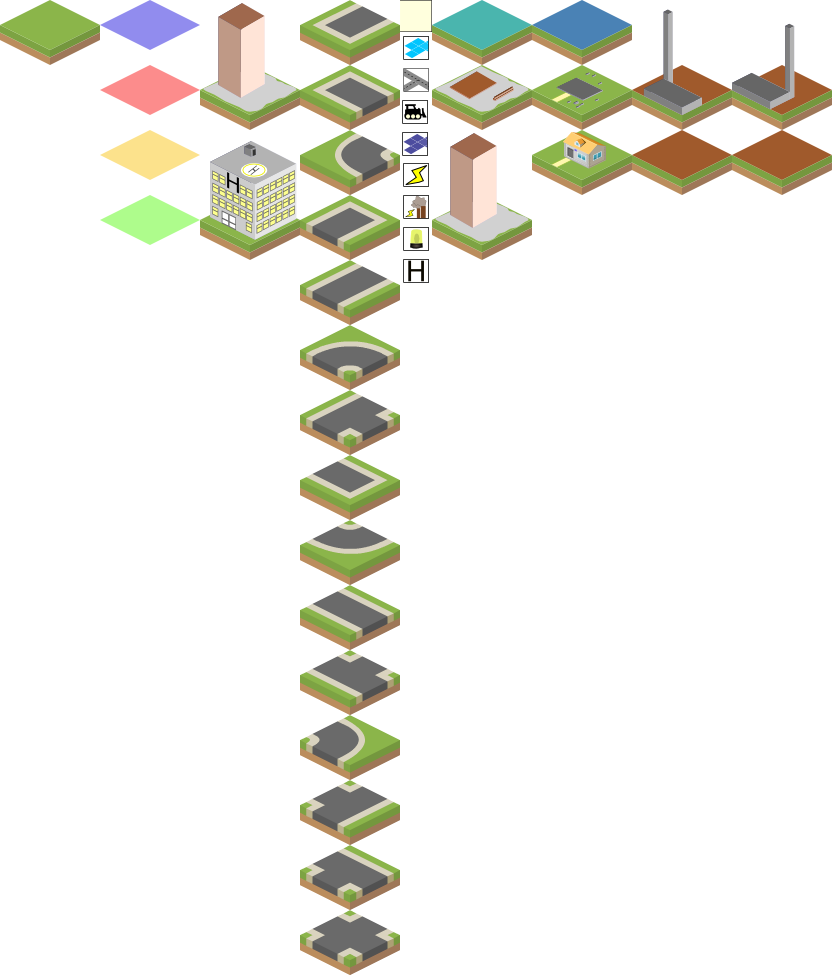
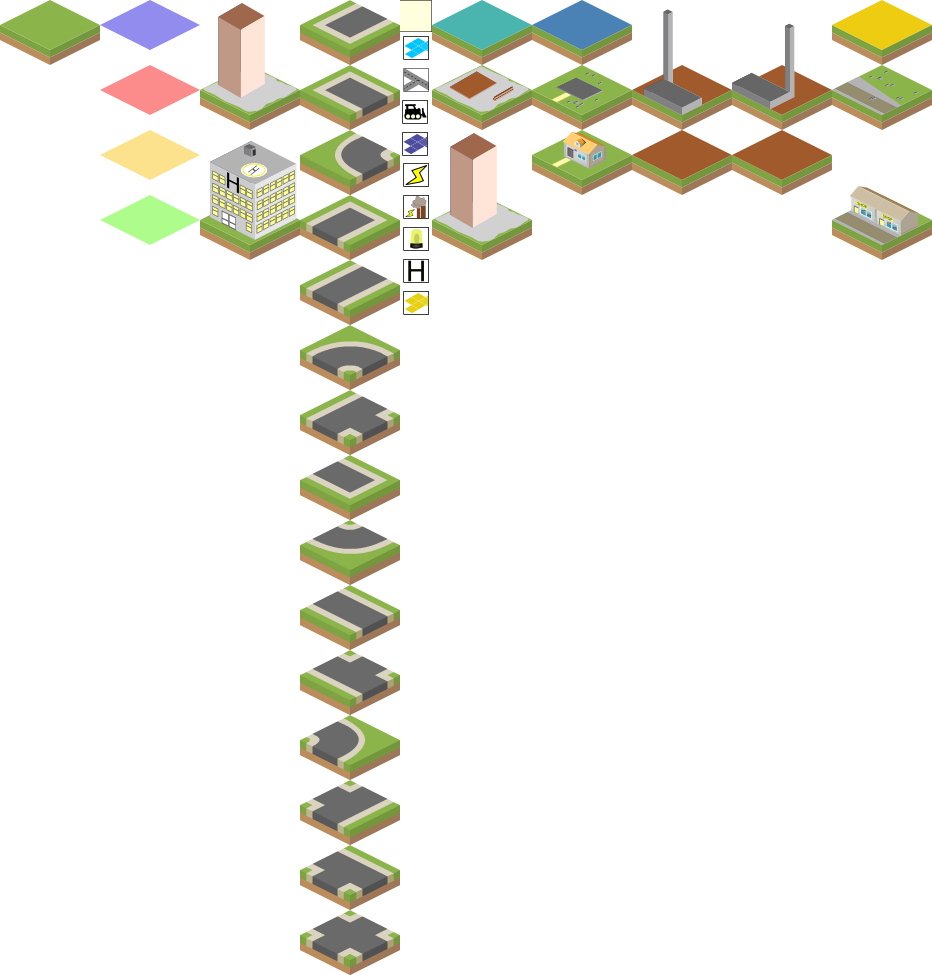
add/Shops

Changed region(s): [[0.0, 0.0, 1.0, 1.0]]

diff --git a/src/city_master.c b/src/city_master.c
@@ -34,6 +34,9 @@ int build_finish_prob = 600;
 extern int reqired_power;
 extern int power_avalible;
 
+extern int number_of_shops;
+const int target_population_per_shop = 250;
+
 int balanceChangeCounterStart = 100;
 int balanceChangeCounter = 100;
 int lastBalanceChange;
@@ -137,6 +140,18 @@ void placePlannedBuild()
             }
 
             break;
+        case MODE_BUILD_RETAIL:;
+            for(x = MIN(plan_down.x, plan_up.x); x<=MAX(plan_down.x, plan_up.x); x++) {
+                for(y = MIN(plan_down.y, plan_up.y); y<=MAX(plan_down.y, plan_up.y); y++) {
+                    p.x = x;
+                    p.y = y;
+                    if(canBuildOn(map_value[p.x][p.y])) {
+                        build_tile(p.x, p.y, TILE_RETAIL_ZONE);
+                    }
+                }
+            }
+
+            break;
         case MODE_BUILD_DESTROY:
             for(x = MIN(plan_down.x, plan_up.x); x<=MAX(plan_down.x, plan_up.x); x++) {
                 for(y = MIN(plan_down.y, plan_up.y); y<=MAX(plan_down.y, plan_up.y); y++) {
@@ -192,7 +207,15 @@ bool build_prob_check(TILE_TYPE t)
             break;
         case TILE_RESIDENTIAL_1_BUILDING:
         case TILE_RESIDENTIAL_2_BUILDING:
+        case TILE_RETAIL_BUILDING:
             prob = build_finish_prob;
+            break;
+        case TILE_RETAIL_ZONE:;
+            // How many shops we need to get to the optimum number
+            float shops_short_by = ((float)getPopulation()/(float)target_population_per_shop) - (float)number_of_shops;
+            if(shops_short_by > 0)  prob =  1500;
+            else                    prob = 15000;
+
             break;
         default:
             prob = build_finish_prob;
@@ -204,11 +227,13 @@ bool build_prob_check(TILE_TYPE t)
 
 void map_update()
 {
-    int x, y, pop;
+    int x, y, pop = 0, shopC = 0;
     for(x=1; x<MAP_SIZE_X; x++) {
         for(y=1;y<MAP_SIZE_Y; y++) {
 
             pop += getTilePopulation(map_value[x][y]);
+
+            if(map_value[x][y] == TILE_RETAIL_B1) shopC += 1;
 
             switch(map_value[x][y]) {
                 case TILE_RESIDENTIAL_1_ZONE:
@@ -239,12 +264,27 @@ void map_update()
                         reqired_power = reqired_power - getPowerUsage(TILE_RESIDENTIAL_2_BUILDING);
                     }
                     break;
+                case TILE_RETAIL_ZONE:
+                    if(grid_supplied(x, y, TILE_RETAIL_BUILDING) && build_prob_check(TILE_RETAIL_ZONE)) { 
+                        //map_value[x][y] = TILE_RESIDENTIAL_2_BUILDING;
+                        build_tile(x, y, TILE_RETAIL_BUILDING);
+                        reqired_power = reqired_power - getPowerUsage(TILE_RETAIL_ZONE);
+                    }
+                    break;
+                case TILE_RETAIL_BUILDING:
+                    if(grid_supplied(x, y, TILE_RETAIL_B1) && build_prob_check(TILE_RETAIL_BUILDING)) {
+                        //map_value[x][y] = TILE_RESIDENTIAL_2_B1;
+                        build_tile(x, y, TILE_RETAIL_B1);
+                        reqired_power = reqired_power - getPowerUsage(TILE_RETAIL_BUILDING);
+                    }
+                    break;
                 default:
                     break;
             }
         }
     }
     setPopulation(pop);
+    number_of_shops = shopC;
 }
 
 void inc_balance()
@@ -347,7 +387,7 @@ int main(int argc, char* argv[])
                 down_point.x = e.button.x;
                 down_point.y = e.button.y;
                 if((mode == MODE_BUILD_ROAD || mode == MODE_BUILD_RESIDENTIAL_1 || mode == MODE_BUILD_RESIDENTIAL_2 
-                        || mode == MODE_BUILD_DESTROY)) {
+                        || mode == MODE_BUILD_DESTROY || mode == MODE_BUILD_RETAIL)) {
                     Point d;
                     mouseToGrid(down_point.x, down_point.y, &d);
                     updating_plan = true;
@@ -381,6 +421,16 @@ int main(int argc, char* argv[])
                                 ready_to_place = false; //as we are placing it
                                 if(canBuildOn(map_value[u.x][u.y])) {
                                     build_tile(u.x, u.y, TILE_RESIDENTIAL_2_ZONE);
+                                }
+                            } else {
+                                planRoad(u, d); //Plan to build a bilding is the same as planning a road -- //TODO RENAME
+                            }
+                            break;
+                        case MODE_BUILD_RETAIL:
+                            if(u.x == d.x && u.y == d.y) {
+                                ready_to_place = false; //as we are placing it
+                                if(canBuildOn(map_value[u.x][u.y])) {
+                                    build_tile(u.x, u.y, TILE_RETAIL_ZONE);
                                 }
                             } else {
                                 planRoad(u, d); //Plan to build a bilding is the same as planning a road -- //TODO RENAME

diff --git a/src/tile_info.c b/src/tile_info.c
@@ -23,6 +23,9 @@ void initClips()
     tilePowerRequirements[TILE_RESIDENTIAL_2_BUILDING] = 30;
     tilePowerRequirements[TILE_RESIDENTIAL_2_B1] = 60;
     tilePowerRequirements[TILE_SERVICE_BUILDING_HOSPITAL] = 1000;
+    tilePowerRequirements[TILE_RETAIL_ZONE] = 0;
+    tilePowerRequirements[TILE_RETAIL_BUILDING] = 30;
+    tilePowerRequirements[TILE_RETAIL_B1] = 100;
 
     tilePopulation[TILE_GRASS] = 0;
     tilePopulation[TILE_BUILDING] = 0;
@@ -37,6 +40,13 @@ void initClips()
     tilePopulation[TILE_RESIDENTIAL_2_BUILDING] = 0;
     tilePopulation[TILE_RESIDENTIAL_2_B1] = 6;
     tilePopulation[TILE_SERVICE_BUILDING_HOSPITAL] = 0;
+    tilePopulation[TILE_RETAIL_ZONE] = 0;
+    tilePopulation[TILE_RETAIL_BUILDING] = 0;
+    tilePopulation[TILE_RETAIL_B1] = 0;
+    tilePopulation[TILE_POWER_GAS_P1] = 0;
+    tilePopulation[TILE_POWER_GAS_P2] = 0;
+    tilePopulation[TILE_POWER_GAS_P3] = 0;
+    tilePopulation[TILE_POWER_GAS_P4] = 0;
 
     // Tiles
     tileClips[TILE_GRASS].x = 0;
@@ -125,6 +135,21 @@ void initClips()
     tileClips[TILE_POWER_GAS_P4].w = 100;
     tileClips[TILE_POWER_GAS_P4].h = 65;
 
+    tileClips[TILE_RETAIL_ZONE].x = 832;
+    tileClips[TILE_RETAIL_ZONE].y = 0;
+    tileClips[TILE_RETAIL_ZONE].w = 100;
+    tileClips[TILE_RETAIL_ZONE].h = 65;
+
+    tileClips[TILE_RETAIL_BUILDING].x = 832;
+    tileClips[TILE_RETAIL_BUILDING].y = 65;
+    tileClips[TILE_RETAIL_BUILDING].w = 100;
+    tileClips[TILE_RETAIL_BUILDING].h = 65;
+
+    tileClips[TILE_RETAIL_B1].x = 832;
+    tileClips[TILE_RETAIL_B1].y = 65*2;
+    tileClips[TILE_RETAIL_B1].w = 100;
+    tileClips[TILE_RETAIL_B1].h = 65*2;
+
 
     //Sprites
     spriteClips[SPRITE_BUILD_BACKGROUND].x = 400;
@@ -171,6 +196,11 @@ void initClips()
     spriteClips[SPRITE_SERVICES_HOSPITAL].y = 32*8;
     spriteClips[SPRITE_SERVICES_HOSPITAL].w = 32;
     spriteClips[SPRITE_SERVICES_HOSPITAL].h = 32;
+
+    spriteClips[SPRITE_BUILD_ZONE_RETAIL].x = 400;
+    spriteClips[SPRITE_BUILD_ZONE_RETAIL].y = 32*9;
+    spriteClips[SPRITE_BUILD_ZONE_RETAIL].w = 32;
+    spriteClips[SPRITE_BUILD_ZONE_RETAIL].h = 32;
 
     TILE_TYPE road_i = TILE_ROAD_0;
     for(; road_i<=TILE_ROAD_14; road_i++) {
@@ -296,5 +326,6 @@ int getIncome(TILE_TYPE t)
 
 int getTilePopulation(TILE_TYPE t)
 {
+    if(t >= TILE_ROAD_0 && t <= TILE_ROAD_14) return 0;
     return tilePopulation[t];
 }

diff --git a/src/menu_manager.c b/src/menu_manager.c
@@ -6,9 +6,9 @@
 #define DRAG_SENSITIVITY 5
 
 #define MENU_LENGTH 5
-#define MENU_LONGEST_SUBMENU 5
+#define MENU_LONGEST_SUBMENU 6
 SPRITE menu[MENU_LENGTH][MENU_LONGEST_SUBMENU] = {
-    {SPRITE_BUILD_ZONE_RES1, SPRITE_BUILD_ZONE_RES1, SPRITE_BUILD_ZONE_RES2, NULL_SPRITE},
+    {SPRITE_BUILD_ZONE_RES1, SPRITE_BUILD_ZONE_RES1, SPRITE_BUILD_ZONE_RES2, SPRITE_BUILD_ZONE_RETAIL, NULL_SPRITE},
     {SPRITE_BUILD_POWER_GENRAL, SPRITE_BUILD_POWER_GAS, NULL_SPRITE},
     {SPRITE_SERVICES_GENRAL, SPRITE_SERVICES_HOSPITAL, NULL_SPRITE},
     {SPRITE_BUILD_ROAD, NULL_SPRITE},
@@ -52,6 +52,9 @@ void button_click(int menu_x, int menu_y, SPRITE sprite)
                 break;
             case SPRITE_BUILD_ZONE_RES2:
                 setMode(MODE_BUILD_RESIDENTIAL_2);
+                break;
+            case SPRITE_BUILD_ZONE_RETAIL:
+                setMode(MODE_BUILD_RETAIL);
                 break;
             case SPRITE_BUILD_POWER_GAS:
                 setMode(MODE_BUILD_POWER_GAS);

diff --git a/src/tile_info.h b/src/tile_info.h
@@ -6,7 +6,7 @@
 #include <stdbool.h>
 
 //Number NOT including the road tiles!
-#define NUMBER_OF_TILES 17
+#define NUMBER_OF_TILES 20
 typedef enum {
     TILE_GRASS = 0,
     TILE_BUILDING = 1,
@@ -28,6 +28,10 @@ typedef enum {
 
     TILE_SERVICE_BUILDING_HOSPITAL = 16,
 
+    TILE_RETAIL_ZONE = 17,
+    TILE_RETAIL_BUILDING = 18,
+    TILE_RETAIL_B1 = 19,    
+
     TILE_ROAD_0 = 200,
     TILE_ROAD_1 = 201,
     TILE_ROAD_2 = 202,
@@ -45,7 +49,7 @@ typedef enum {
     TILE_ROAD_14= 214
 } TILE_TYPE;
 
-#define NUMBER_OF_SPRITES 9
+#define NUMBER_OF_SPRITES 10
 typedef enum {
     NULL_SPRITE = -1, //IMPORTANT:: Don't try to use this as it will cause buffer overflows
     SPRITE_BUILD_BACKGROUND = 0,
@@ -56,7 +60,8 @@ typedef enum {
     SPRITE_BUILD_POWER_GENRAL = 5,
     SPRITE_BUILD_POWER_GAS = 6,
     SPRITE_SERVICES_GENRAL = 7,
-    SPRITE_SERVICES_HOSPITAL = 8
+    SPRITE_SERVICES_HOSPITAL = 8,
+    SPRITE_BUILD_ZONE_RETAIL = 9
 } SPRITE;
 
 

diff --git a/src/drawing_functions.c b/src/drawing_functions.c
@@ -132,7 +132,9 @@ void draw_city(SDL_Renderer* ren)
                 break;
             case MODE_BUILD_RESIDENTIAL_1:
             case MODE_BUILD_RESIDENTIAL_2:
-            case MODE_BUILD_DESTROY:;
+            case MODE_BUILD_DESTROY:
+            case MODE_BUILD_RETAIL:
+            ;
                 //p = plan_down;
                 //p2 = plan_down;
                 //drawTileFromGridPoint(ren, &plan_down, getTileClip(TILE_HIGHLIGHT_GREEN));
@@ -184,6 +186,9 @@ void draw_HUD(SDL_Renderer* ren)
             break;
         case MODE_BUILD_DESTROY:
             modeText = "Demolish";
+            break;
+        case MODE_BUILD_RETAIL:
+            modeText = "Build retail units";
             break;
         case MODE_BUILD_HOSPITAL:
             modeText = "Build hospital";

diff --git a/src/resource_manager.c b/src/resource_manager.c
@@ -1,6 +1,5 @@
 #include "resource_manager.h"
 
-
 int reqired_power = 0;
 int power_avalible = 1000;
 
@@ -9,6 +8,7 @@ int money = 100000; //,000s
 int hospitals = 0; //number of hospitals
 
 int population = 0;
+int number_of_shops = 0;
 
 int getBalance()
 {

diff --git a/src/city_master.h b/src/city_master.h
@@ -13,7 +13,8 @@ typedef enum {
     MODE_BUILD_ROAD,
     MODE_BUILD_POWER_GAS,
     MODE_BUILD_DESTROY,
-    MODE_BUILD_HOSPITAL
+    MODE_BUILD_HOSPITAL,
+    MODE_BUILD_RETAIL
 } MODE;
 
 void setMode(MODE mode);
